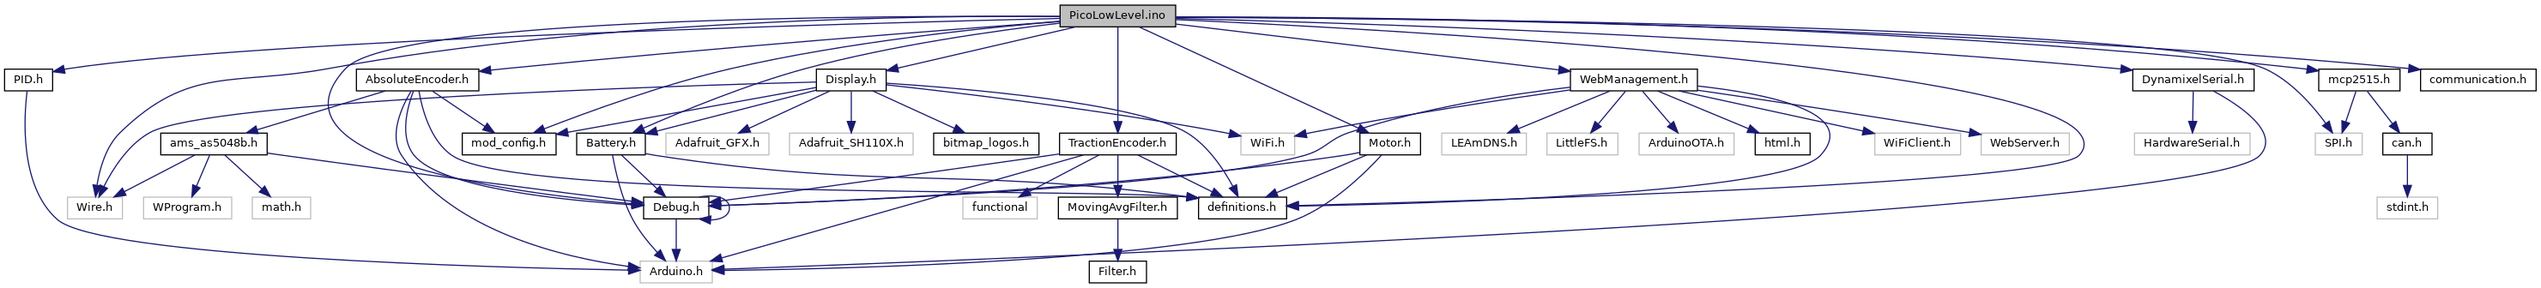
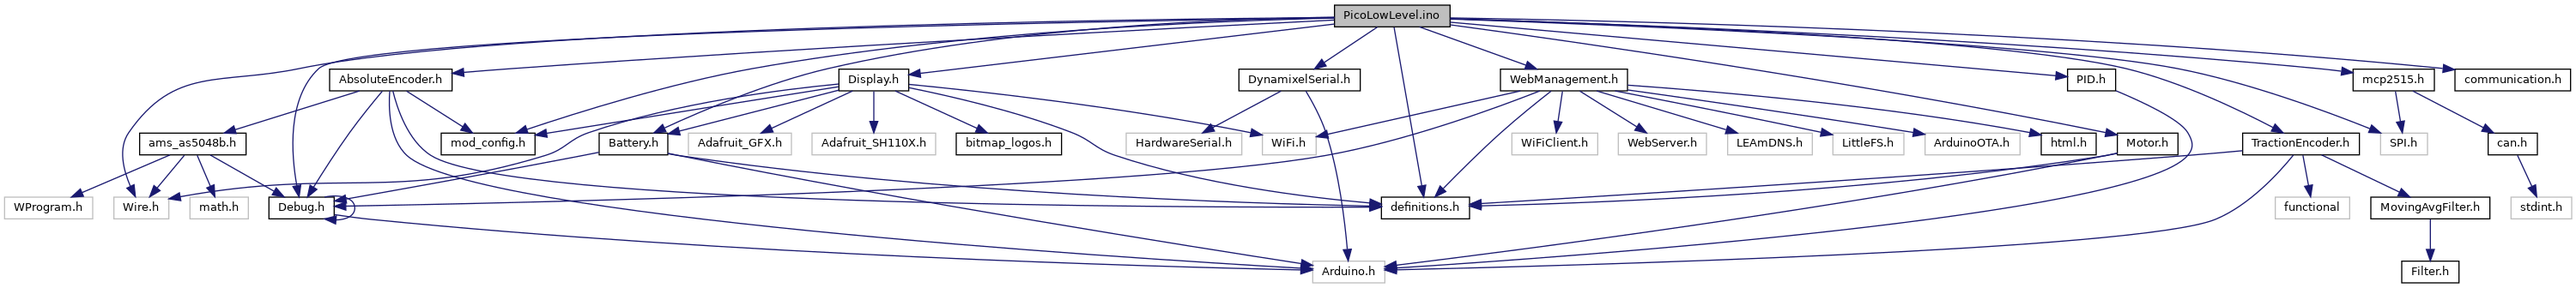
Deploying to gh-pages from @ Team-Isaac-Polito/PicoLowLevel@255b594eee06919a0826bf6aa07f823008636946 🚀

diff --git a/TractionEncoder_8h_source.html b/TractionEncoder_8h_source.html
@@ -90,35 +90,33 @@ $(document).ready(function(){initNavTree('TractionEncoder_8h_source.html',''); i
 <div class="line"><a name="l00003"></a><span class="lineno">    3</span>&#160; </div>
 <div class="line"><a name="l00004"></a><span class="lineno">    4</span>&#160;<span class="preprocessor">#include &lt;Arduino.h&gt;</span></div>
 <div class="line"><a name="l00005"></a><span class="lineno">    5</span>&#160;<span class="preprocessor">#include &lt;functional&gt;</span></div>
-<div class="line"><a name="l00006"></a><span class="lineno">    6</span>&#160;<span class="preprocessor">#include &quot;<a class="code" href="Debug_8h.html">Debug.h</a>&quot;</span></div>
-<div class="line"><a name="l00007"></a><span class="lineno">    7</span>&#160;<span class="preprocessor">#include &quot;<a class="code" href="definitions_8h.html">definitions.h</a>&quot;</span></div>
-<div class="line"><a name="l00008"></a><span class="lineno">    8</span>&#160;<span class="preprocessor">#include &quot;<a class="code" href="MovingAvgFilter_8h.html">MovingAvgFilter.h</a>&quot;</span></div>
-<div class="line"><a name="l00009"></a><span class="lineno">    9</span>&#160; </div>
-<div class="line"><a name="l00013"></a><span class="lineno"><a class="line" href="classTractionEncoder.html">   13</a></span>&#160;<span class="keyword">class </span><a class="code" href="classTractionEncoder.html">TractionEncoder</a> { </div>
-<div class="line"><a name="l00014"></a><span class="lineno">   14</span>&#160;  <span class="keyword">public</span>:</div>
-<div class="line"><a name="l00015"></a><span class="lineno">   15</span>&#160;    <a class="code" href="classTractionEncoder.html#a087860f2f22da4cf9dd0a4d93398eb73">TractionEncoder</a>(<span class="keywordtype">byte</span> pin_a, <span class="keywordtype">byte</span> pin_b, <a class="code" href="classFilter.html">Filter&lt;int&gt;</a> *filter = NULL);</div>
-<div class="line"><a name="l00016"></a><span class="lineno">   16</span>&#160;    <span class="keywordtype">void</span> <a class="code" href="classTractionEncoder.html#a3b38935e97776ddcebdeb2c394f6d48d">begin</a>();</div>
-<div class="line"><a name="l00017"></a><span class="lineno">   17</span>&#160;    <span class="keywordtype">void</span> <a class="code" href="classTractionEncoder.html#a6d70ace18f1dcec4d0ddddf84ad48343">update</a>();</div>
-<div class="line"><a name="l00018"></a><span class="lineno">   18</span>&#160;    <span class="keywordtype">int</span> <a class="code" href="classTractionEncoder.html#a2c414262e6a923fe180d51197fc9bf5b">getSpeed</a>();</div>
-<div class="line"><a name="l00019"></a><span class="lineno">   19</span>&#160; </div>
-<div class="line"><a name="l00020"></a><span class="lineno">   20</span>&#160;  <span class="keyword">private</span>:</div>
-<div class="line"><a name="l00021"></a><span class="lineno">   21</span>&#160;    <span class="keywordtype">byte</span> pin_a, pin_b;</div>
-<div class="line"><a name="l00022"></a><span class="lineno">   22</span>&#160;    <span class="keywordtype">bool</span> old_a;</div>
-<div class="line"><a name="l00023"></a><span class="lineno">   23</span>&#160;    <span class="keywordtype">long</span> countSteps;</div>
-<div class="line"><a name="l00024"></a><span class="lineno">   24</span>&#160;    <span class="keywordtype">unsigned</span> <span class="keywordtype">long</span> time;</div>
-<div class="line"><a name="l00025"></a><span class="lineno">   25</span>&#160;    <span class="keywordtype">int</span> speed;</div>
-<div class="line"><a name="l00026"></a><span class="lineno">   26</span>&#160; </div>
-<div class="line"><a name="l00027"></a><span class="lineno">   27</span>&#160;    <a class="code" href="classFilter.html">Filter&lt;int&gt;</a> *filter;</div>
-<div class="line"><a name="l00028"></a><span class="lineno">   28</span>&#160; </div>
-<div class="line"><a name="l00029"></a><span class="lineno">   29</span>&#160;    <span class="keywordtype">void</span> ISR();</div>
-<div class="line"><a name="l00030"></a><span class="lineno">   30</span>&#160;    <span class="keyword">static</span> <span class="keywordtype">void</span> ISR_wrapper(<a class="code" href="classTractionEncoder.html">TractionEncoder</a>* te);</div>
-<div class="line"><a name="l00031"></a><span class="lineno">   31</span>&#160;};</div>
-<div class="line"><a name="l00032"></a><span class="lineno">   32</span>&#160; </div>
-<div class="line"><a name="l00033"></a><span class="lineno">   33</span>&#160;<span class="preprocessor">#endif</span></div>
-<div class="ttc" id="aDebug_8h_html"><div class="ttname"><a href="Debug_8h.html">Debug.h</a></div></div>
+<div class="line"><a name="l00006"></a><span class="lineno">    6</span>&#160;<span class="preprocessor">#include &quot;<a class="code" href="definitions_8h.html">definitions.h</a>&quot;</span></div>
+<div class="line"><a name="l00007"></a><span class="lineno">    7</span>&#160;<span class="preprocessor">#include &quot;<a class="code" href="MovingAvgFilter_8h.html">MovingAvgFilter.h</a>&quot;</span></div>
+<div class="line"><a name="l00008"></a><span class="lineno">    8</span>&#160; </div>
+<div class="line"><a name="l00012"></a><span class="lineno"><a class="line" href="classTractionEncoder.html">   12</a></span>&#160;<span class="keyword">class </span><a class="code" href="classTractionEncoder.html">TractionEncoder</a> { </div>
+<div class="line"><a name="l00013"></a><span class="lineno">   13</span>&#160;  <span class="keyword">public</span>:</div>
+<div class="line"><a name="l00014"></a><span class="lineno">   14</span>&#160;    <a class="code" href="classTractionEncoder.html#a087860f2f22da4cf9dd0a4d93398eb73">TractionEncoder</a>(<span class="keywordtype">byte</span> pin_a, <span class="keywordtype">byte</span> pin_b, <a class="code" href="classFilter.html">Filter&lt;int&gt;</a> *filter = NULL);</div>
+<div class="line"><a name="l00015"></a><span class="lineno">   15</span>&#160;    <span class="keywordtype">void</span> <a class="code" href="classTractionEncoder.html#a3b38935e97776ddcebdeb2c394f6d48d">begin</a>();</div>
+<div class="line"><a name="l00016"></a><span class="lineno">   16</span>&#160;    <span class="keywordtype">void</span> <a class="code" href="classTractionEncoder.html#a6d70ace18f1dcec4d0ddddf84ad48343">update</a>();</div>
+<div class="line"><a name="l00017"></a><span class="lineno">   17</span>&#160;    <span class="keywordtype">int</span> <a class="code" href="classTractionEncoder.html#a2c414262e6a923fe180d51197fc9bf5b">getSpeed</a>();</div>
+<div class="line"><a name="l00018"></a><span class="lineno">   18</span>&#160; </div>
+<div class="line"><a name="l00019"></a><span class="lineno">   19</span>&#160;  <span class="keyword">private</span>:</div>
+<div class="line"><a name="l00020"></a><span class="lineno">   20</span>&#160;    <span class="keywordtype">byte</span> pin_a, pin_b;</div>
+<div class="line"><a name="l00021"></a><span class="lineno">   21</span>&#160;    <span class="keywordtype">bool</span> old_a;</div>
+<div class="line"><a name="l00022"></a><span class="lineno">   22</span>&#160;    <span class="keywordtype">long</span> countSteps;</div>
+<div class="line"><a name="l00023"></a><span class="lineno">   23</span>&#160;    <span class="keywordtype">unsigned</span> <span class="keywordtype">long</span> time;</div>
+<div class="line"><a name="l00024"></a><span class="lineno">   24</span>&#160;    <span class="keywordtype">int</span> speed;</div>
+<div class="line"><a name="l00025"></a><span class="lineno">   25</span>&#160; </div>
+<div class="line"><a name="l00026"></a><span class="lineno">   26</span>&#160;    <a class="code" href="classFilter.html">Filter&lt;int&gt;</a> *filter;</div>
+<div class="line"><a name="l00027"></a><span class="lineno">   27</span>&#160; </div>
+<div class="line"><a name="l00028"></a><span class="lineno">   28</span>&#160;    <span class="keywordtype">void</span> ISR();</div>
+<div class="line"><a name="l00029"></a><span class="lineno">   29</span>&#160;    <span class="keyword">static</span> <span class="keywordtype">void</span> ISR_wrapper(<a class="code" href="classTractionEncoder.html">TractionEncoder</a>* te);</div>
+<div class="line"><a name="l00030"></a><span class="lineno">   30</span>&#160;};</div>
+<div class="line"><a name="l00031"></a><span class="lineno">   31</span>&#160; </div>
+<div class="line"><a name="l00032"></a><span class="lineno">   32</span>&#160;<span class="preprocessor">#endif</span></div>
 <div class="ttc" id="aMovingAvgFilter_8h_html"><div class="ttname"><a href="MovingAvgFilter_8h.html">MovingAvgFilter.h</a></div></div>
 <div class="ttc" id="aclassFilter_html"><div class="ttname"><a href="classFilter.html">Filter&lt; int &gt;</a></div></div>
-<div class="ttc" id="aclassTractionEncoder_html"><div class="ttname"><a href="classTractionEncoder.html">TractionEncoder</a></div><div class="ttdoc">Class used to read data from traction rotary encoders.</div><div class="ttdef"><b>Definition:</b> TractionEncoder.h:13</div></div>
+<div class="ttc" id="aclassTractionEncoder_html"><div class="ttname"><a href="classTractionEncoder.html">TractionEncoder</a></div><div class="ttdoc">Class used to read data from traction rotary encoders.</div><div class="ttdef"><b>Definition:</b> TractionEncoder.h:12</div></div>
 <div class="ttc" id="aclassTractionEncoder_html_a087860f2f22da4cf9dd0a4d93398eb73"><div class="ttname"><a href="classTractionEncoder.html#a087860f2f22da4cf9dd0a4d93398eb73">TractionEncoder::TractionEncoder</a></div><div class="ttdeci">TractionEncoder(byte pin_a, byte pin_b, Filter&lt; int &gt; *filter=NULL)</div><div class="ttdoc">Creates object.</div><div class="ttdef"><b>Definition:</b> TractionEncoder.cpp:6</div></div>
 <div class="ttc" id="aclassTractionEncoder_html_a2c414262e6a923fe180d51197fc9bf5b"><div class="ttname"><a href="classTractionEncoder.html#a2c414262e6a923fe180d51197fc9bf5b">TractionEncoder::getSpeed</a></div><div class="ttdeci">int getSpeed()</div><div class="ttdoc">Returns the last detected speed.</div><div class="ttdef"><b>Definition:</b> TractionEncoder.cpp:48</div></div>
 <div class="ttc" id="aclassTractionEncoder_html_a3b38935e97776ddcebdeb2c394f6d48d"><div class="ttname"><a href="classTractionEncoder.html#a3b38935e97776ddcebdeb2c394f6d48d">TractionEncoder::begin</a></div><div class="ttdeci">void begin()</div><div class="ttdoc">Sets the encoder's pins and attach the interrupt.</div><div class="ttdef"><b>Definition:</b> TractionEncoder.cpp:17</div></div>

diff --git a/Motor_8h_source.html b/Motor_8h_source.html
@@ -89,22 +89,20 @@ $(document).ready(function(){initNavTree('Motor_8h_source.html',''); initResizab
 <div class="line"><a name="l00002"></a><span class="lineno">    2</span>&#160;<span class="preprocessor">#define MOTOR_H</span></div>
 <div class="line"><a name="l00003"></a><span class="lineno">    3</span>&#160; </div>
 <div class="line"><a name="l00004"></a><span class="lineno">    4</span>&#160;<span class="preprocessor">#include &lt;Arduino.h&gt;</span></div>
-<div class="line"><a name="l00005"></a><span class="lineno">    5</span>&#160;<span class="preprocessor">#include &quot;<a class="code" href="Debug_8h.html">Debug.h</a>&quot;</span></div>
-<div class="line"><a name="l00006"></a><span class="lineno">    6</span>&#160;<span class="preprocessor">#include &quot;<a class="code" href="definitions_8h.html">definitions.h</a>&quot;</span></div>
-<div class="line"><a name="l00007"></a><span class="lineno">    7</span>&#160; </div>
-<div class="line"><a name="l00011"></a><span class="lineno"><a class="line" href="classMotor.html">   11</a></span>&#160;<span class="keyword">class </span><a class="code" href="classMotor.html">Motor</a> {</div>
-<div class="line"><a name="l00012"></a><span class="lineno">   12</span>&#160;  <span class="keyword">public</span>:</div>
-<div class="line"><a name="l00013"></a><span class="lineno">   13</span>&#160;    <a class="code" href="classMotor.html#a2fa21a9588e7fb8ca61db5b569cc7e63">Motor</a>(<span class="keywordtype">byte</span> pwm, <span class="keywordtype">byte</span> dir);</div>
-<div class="line"><a name="l00014"></a><span class="lineno">   14</span>&#160;    <span class="keywordtype">void</span> <a class="code" href="classMotor.html#a8949ad244c546ecde601ec3d03403ed9">begin</a>();</div>
-<div class="line"><a name="l00015"></a><span class="lineno">   15</span>&#160;    <span class="keywordtype">void</span> <a class="code" href="classMotor.html#a59dc38671f171be3097b3d84ddf1180e">write</a>(<span class="keywordtype">float</span> value);</div>
-<div class="line"><a name="l00016"></a><span class="lineno">   16</span>&#160;    </div>
-<div class="line"><a name="l00017"></a><span class="lineno">   17</span>&#160;  <span class="keyword">private</span>:</div>
-<div class="line"><a name="l00018"></a><span class="lineno">   18</span>&#160;    <span class="keywordtype">byte</span> pwm, dir;</div>
-<div class="line"><a name="l00019"></a><span class="lineno">   19</span>&#160;};</div>
-<div class="line"><a name="l00020"></a><span class="lineno">   20</span>&#160; </div>
-<div class="line"><a name="l00021"></a><span class="lineno">   21</span>&#160;<span class="preprocessor">#endif</span></div>
-<div class="ttc" id="aDebug_8h_html"><div class="ttname"><a href="Debug_8h.html">Debug.h</a></div></div>
-<div class="ttc" id="aclassMotor_html"><div class="ttname"><a href="classMotor.html">Motor</a></div><div class="ttdoc">Motor class used to control simple DC motors.</div><div class="ttdef"><b>Definition:</b> Motor.h:11</div></div>
+<div class="line"><a name="l00005"></a><span class="lineno">    5</span>&#160;<span class="preprocessor">#include &quot;<a class="code" href="definitions_8h.html">definitions.h</a>&quot;</span></div>
+<div class="line"><a name="l00006"></a><span class="lineno">    6</span>&#160; </div>
+<div class="line"><a name="l00010"></a><span class="lineno"><a class="line" href="classMotor.html">   10</a></span>&#160;<span class="keyword">class </span><a class="code" href="classMotor.html">Motor</a> {</div>
+<div class="line"><a name="l00011"></a><span class="lineno">   11</span>&#160;  <span class="keyword">public</span>:</div>
+<div class="line"><a name="l00012"></a><span class="lineno">   12</span>&#160;    <a class="code" href="classMotor.html#a2fa21a9588e7fb8ca61db5b569cc7e63">Motor</a>(<span class="keywordtype">byte</span> pwm, <span class="keywordtype">byte</span> dir);</div>
+<div class="line"><a name="l00013"></a><span class="lineno">   13</span>&#160;    <span class="keywordtype">void</span> <a class="code" href="classMotor.html#a8949ad244c546ecde601ec3d03403ed9">begin</a>();</div>
+<div class="line"><a name="l00014"></a><span class="lineno">   14</span>&#160;    <span class="keywordtype">void</span> <a class="code" href="classMotor.html#a59dc38671f171be3097b3d84ddf1180e">write</a>(<span class="keywordtype">float</span> value);</div>
+<div class="line"><a name="l00015"></a><span class="lineno">   15</span>&#160;    </div>
+<div class="line"><a name="l00016"></a><span class="lineno">   16</span>&#160;  <span class="keyword">private</span>:</div>
+<div class="line"><a name="l00017"></a><span class="lineno">   17</span>&#160;    <span class="keywordtype">byte</span> pwm, dir;</div>
+<div class="line"><a name="l00018"></a><span class="lineno">   18</span>&#160;};</div>
+<div class="line"><a name="l00019"></a><span class="lineno">   19</span>&#160; </div>
+<div class="line"><a name="l00020"></a><span class="lineno">   20</span>&#160;<span class="preprocessor">#endif</span></div>
+<div class="ttc" id="aclassMotor_html"><div class="ttname"><a href="classMotor.html">Motor</a></div><div class="ttdoc">Motor class used to control simple DC motors.</div><div class="ttdef"><b>Definition:</b> Motor.h:10</div></div>
 <div class="ttc" id="aclassMotor_html_a2fa21a9588e7fb8ca61db5b569cc7e63"><div class="ttname"><a href="classMotor.html#a2fa21a9588e7fb8ca61db5b569cc7e63">Motor::Motor</a></div><div class="ttdeci">Motor(byte pwm, byte dir)</div><div class="ttdoc">Create object and set motor pins.</div><div class="ttdef"><b>Definition:</b> Motor.cpp:8</div></div>
 <div class="ttc" id="aclassMotor_html_a59dc38671f171be3097b3d84ddf1180e"><div class="ttname"><a href="classMotor.html#a59dc38671f171be3097b3d84ddf1180e">Motor::write</a></div><div class="ttdeci">void write(float value)</div><div class="ttdoc">Sets the motor speed.</div><div class="ttdef"><b>Definition:</b> Motor.cpp:25</div></div>
 <div class="ttc" id="aclassMotor_html_a8949ad244c546ecde601ec3d03403ed9"><div class="ttname"><a href="classMotor.html#a8949ad244c546ecde601ec3d03403ed9">Motor::begin</a></div><div class="ttdeci">void begin()</div><div class="ttdoc">Initialize motors.</div><div class="ttdef"><b>Definition:</b> Motor.cpp:16</div></div>

diff --git a/PicoLowLevel_8ino.html b/PicoLowLevel_8ino.html
@@ -108,42 +108,42 @@ Include dependency graph for PicoLowLevel.ino:</div>
 <div class="dyncontent">
 <div class="center"><img src="PicoLowLevel_8ino__incl.png" border="0" usemap="#aPicoLowLevel_8ino" alt=""/></div>
 <map name="aPicoLowLevel_8ino" id="aPicoLowLevel_8ino">
-<area shape="rect" title=" " alt="" coords="1235,5,1370,32"/>
-<area shape="rect" title=" " alt="" coords="79,229,143,256"/>
-<area shape="rect" title=" " alt="" coords="2698,155,2753,181"/>
-<area shape="rect" href="Motor_8h.html" title=" " alt="" coords="1585,155,1655,181"/>
-<area shape="rect" href="Debug_8h.html" title=" " alt="" coords="750,229,826,256"/>
-<area shape="rect" href="definitions_8h.html" title=" " alt="" coords="1397,229,1499,256"/>
-<area shape="rect" href="AbsoluteEncoder_8h.html" title=" " alt="" coords="415,80,558,107"/>
-<area shape="rect" href="mod__config_8h.html" title=" " alt="" coords="539,155,648,181"/>
-<area shape="rect" href="Battery_8h.html" title=" " alt="" coords="672,155,752,181"/>
-<area shape="rect" href="TractionEncoder_8h.html" title=" " alt="" coords="1235,155,1371,181"/>
-<area shape="rect" href="DynamixelSerial_8h.html" title=" " alt="" coords="2485,80,2627,107"/>
-<area shape="rect" href="PID_8h.html" title=" " alt="" coords="5,80,61,107"/>
-<area shape="rect" href="mcp2515_8h.html" title=" " alt="" coords="2702,80,2797,107"/>
-<area shape="rect" href="communication_8h.html" title=" " alt="" coords="2821,80,2955,107"/>
-<area shape="rect" href="WebManagement_8h.html" title=" " alt="" coords="1830,80,1978,107"/>
-<area shape="rect" href="Display_8h.html" title=" " alt="" coords="951,80,1033,107"/>
-<area shape="rect" title=" " alt="" coords="746,304,830,331"/>
-<area shape="rect" href="ams__as5048b_8h.html" title=" " alt="" coords="187,155,311,181"/>
-<area shape="rect" title=" " alt="" coords="167,229,270,256"/>
-<area shape="rect" title=" " alt="" coords="294,229,362,256"/>
-<area shape="rect" title=" " alt="" coords="1122,229,1209,256"/>
-<area shape="rect" href="MovingAvgFilter_8h.html" title=" " alt="" coords="1233,229,1372,256"/>
-<area shape="rect" href="Filter_8h.html" title=" " alt="" coords="1269,304,1336,331"/>
-<area shape="rect" title=" " alt="" coords="2487,155,2622,181"/>
-<area shape="rect" href="can_8h.html" title=" " alt="" coords="2777,155,2834,181"/>
-<area shape="rect" title=" " alt="" coords="2770,229,2841,256"/>
-<area shape="rect" title=" " alt="" coords="1446,155,1509,181"/>
-<area shape="rect" title=" " alt="" coords="2185,155,2285,181"/>
-<area shape="rect" title=" " alt="" coords="2309,155,2411,181"/>
-<area shape="rect" title=" " alt="" coords="1680,155,1779,181"/>
-<area shape="rect" title=" " alt="" coords="1803,155,1885,181"/>
-<area shape="rect" title=" " alt="" coords="1910,155,2021,181"/>
-<area shape="rect" href="html_8h.html" title=" " alt="" coords="2045,155,2109,181"/>
-<area shape="rect" title=" " alt="" coords="776,155,896,181"/>
-<area shape="rect" title=" " alt="" coords="920,155,1064,181"/>
-<area shape="rect" href="bitmap__logos_8h.html" title=" " alt="" coords="1088,155,1211,181"/>
+<area shape="rect" title=" " alt="" coords="1555,5,1689,32"/>
+<area shape="rect" title=" " alt="" coords="133,229,197,256"/>
+<area shape="rect" title=" " alt="" coords="2773,155,2828,181"/>
+<area shape="rect" href="Motor_8h.html" title=" " alt="" coords="2467,155,2537,181"/>
+<area shape="rect" href="definitions_8h.html" title=" " alt="" coords="1609,229,1712,256"/>
+<area shape="rect" href="AbsoluteEncoder_8h.html" title=" " alt="" coords="384,80,527,107"/>
+<area shape="rect" href="Debug_8h.html" title=" " alt="" coords="313,229,389,256"/>
+<area shape="rect" href="mod__config_8h.html" title=" " alt="" coords="514,155,623,181"/>
+<area shape="rect" href="Battery_8h.html" title=" " alt="" coords="698,155,778,181"/>
+<area shape="rect" href="TractionEncoder_8h.html" title=" " alt="" coords="2613,155,2749,181"/>
+<area shape="rect" href="DynamixelSerial_8h.html" title=" " alt="" coords="1443,80,1585,107"/>
+<area shape="rect" href="PID_8h.html" title=" " alt="" coords="2409,80,2465,107"/>
+<area shape="rect" href="mcp2515_8h.html" title=" " alt="" coords="2741,80,2836,107"/>
+<area shape="rect" href="communication_8h.html" title=" " alt="" coords="2860,80,2995,107"/>
+<area shape="rect" href="WebManagement_8h.html" title=" " alt="" coords="1748,80,1896,107"/>
+<area shape="rect" href="Display_8h.html" title=" " alt="" coords="977,80,1059,107"/>
+<area shape="rect" title=" " alt="" coords="1529,304,1613,331"/>
+<area shape="rect" href="ams__as5048b_8h.html" title=" " alt="" coords="163,155,287,181"/>
+<area shape="rect" title=" " alt="" coords="5,229,108,256"/>
+<area shape="rect" title=" " alt="" coords="221,229,289,256"/>
+<area shape="rect" title=" " alt="" coords="2651,229,2737,256"/>
+<area shape="rect" href="MovingAvgFilter_8h.html" title=" " alt="" coords="2762,229,2901,256"/>
+<area shape="rect" href="Filter_8h.html" title=" " alt="" coords="2798,304,2865,331"/>
+<area shape="rect" title=" " alt="" coords="1312,155,1447,181"/>
+<area shape="rect" href="can_8h.html" title=" " alt="" coords="2899,155,2956,181"/>
+<area shape="rect" title=" " alt="" coords="2925,229,2996,256"/>
+<area shape="rect" title=" " alt="" coords="1471,155,1533,181"/>
+<area shape="rect" title=" " alt="" coords="1761,155,1861,181"/>
+<area shape="rect" title=" " alt="" coords="1885,155,1988,181"/>
+<area shape="rect" title=" " alt="" coords="2013,155,2111,181"/>
+<area shape="rect" title=" " alt="" coords="2135,155,2218,181"/>
+<area shape="rect" title=" " alt="" coords="2243,155,2353,181"/>
+<area shape="rect" href="html_8h.html" title=" " alt="" coords="2378,155,2442,181"/>
+<area shape="rect" title=" " alt="" coords="802,155,922,181"/>
+<area shape="rect" title=" " alt="" coords="946,155,1090,181"/>
+<area shape="rect" href="bitmap__logos_8h.html" title=" " alt="" coords="1114,155,1237,181"/>
 </map>
 </div>
 </div><table class="memberdecls">

diff --git a/Debug_8h.html b/Debug_8h.html
@@ -105,23 +105,19 @@ This graph shows which files directly or indirectly include this file:</div>
 <div class="dyncontent">
 <div class="center"><img src="Debug_8h__dep__incl.png" border="0" usemap="#aDebug_8hdep" alt=""/></div>
 <map name="aDebug_8hdep" id="aDebug_8hdep">
-<area shape="rect" title=" " alt="" coords="662,6,738,33"/>
+<area shape="rect" title=" " alt="" coords="361,6,437,33"/>
 <area shape="rect" href="AbsoluteEncoder_8h.html" title=" " alt="" coords="13,155,155,182"/>
-<area shape="rect" href="PicoLowLevel_8ino.html" title=" " alt="" coords="565,230,699,257"/>
+<area shape="rect" href="PicoLowLevel_8ino.html" title=" " alt="" coords="429,230,563,257"/>
 <area shape="rect" href="ams__as5048b_8h.html" title=" " alt="" coords="187,81,311,107"/>
-<area shape="rect" href="Battery_8h.html" title=" " alt="" coords="457,81,537,107"/>
-<area shape="rect" href="Debug_8cpp.html" title=" " alt="" coords="724,81,815,107"/>
-<area shape="rect" href="Motor_8h.html" title=" " alt="" coords="839,81,910,107"/>
-<area shape="rect" href="TractionEncoder_8h.html" title=" " alt="" coords="564,81,700,107"/>
-<area shape="rect" href="WebManagement_8h.html" title=" " alt="" coords="947,81,1095,107"/>
+<area shape="rect" href="Battery_8h.html" title=" " alt="" coords="427,81,507,107"/>
+<area shape="rect" href="Debug_8cpp.html" title=" " alt="" coords="756,81,847,107"/>
+<area shape="rect" href="WebManagement_8h.html" title=" " alt="" coords="583,81,731,107"/>
 <area shape="rect" href="AbsoluteEncoder_8cpp.html" title=" " alt="" coords="5,230,163,257"/>
 <area shape="rect" href="ams__as5048b_8cpp.html" title=" " alt="" coords="180,155,319,182"/>
-<area shape="rect" href="Battery_8cpp.html" title=" " alt="" coords="449,155,543,182"/>
-<area shape="rect" href="Display_8h.html" title=" " alt="" coords="343,155,425,182"/>
-<area shape="rect" href="Display_8cpp.html" title=" " alt="" coords="336,230,432,257"/>
-<area shape="rect" href="Motor_8cpp.html" title=" " alt="" coords="897,155,983,182"/>
-<area shape="rect" href="TractionEncoder_8cpp.html" title=" " alt="" coords="670,155,821,182"/>
-<area shape="rect" href="WebManagement_8cpp.html" title=" " alt="" coords="1059,155,1221,182"/>
+<area shape="rect" href="Battery_8cpp.html" title=" " alt="" coords="394,155,489,182"/>
+<area shape="rect" href="Display_8h.html" title=" " alt="" coords="565,155,646,182"/>
+<area shape="rect" href="Display_8cpp.html" title=" " alt="" coords="588,230,684,257"/>
+<area shape="rect" href="WebManagement_8cpp.html" title=" " alt="" coords="721,155,884,182"/>
 </map>
 </div>
 </div>

diff --git a/TractionEncoder_8h.html b/TractionEncoder_8h.html
@@ -89,7 +89,6 @@ $(document).ready(function(){initNavTree('TractionEncoder_8h.html',''); initResi
 <div class="contents">
 <div class="textblock"><code>#include &lt;Arduino.h&gt;</code><br />
 <code>#include &lt;functional&gt;</code><br />
-<code>#include &quot;<a class="el" href="Debug_8h_source.html">Debug.h</a>&quot;</code><br />
 <code>#include &quot;<a class="el" href="definitions_8h_source.html">definitions.h</a>&quot;</code><br />
 <code>#include &quot;<a class="el" href="MovingAvgFilter_8h_source.html">MovingAvgFilter.h</a>&quot;</code><br />
 </div><div class="textblock"><div class="dynheader">
@@ -97,13 +96,12 @@ Include dependency graph for TractionEncoder.h:</div>
 <div class="dyncontent">
 <div class="center"><img src="TractionEncoder_8h__incl.png" border="0" usemap="#aTractionEncoder_8h" alt=""/></div>
 <map name="aTractionEncoder_8h" id="aTractionEncoder_8h">
-<area shape="rect" title=" " alt="" coords="104,5,240,32"/>
-<area shape="rect" title=" " alt="" coords="37,155,121,181"/>
-<area shape="rect" title=" " alt="" coords="24,80,110,107"/>
-<area shape="rect" href="Debug_8h.html" title=" " alt="" coords="134,80,210,107"/>
-<area shape="rect" href="definitions_8h.html" title=" " alt="" coords="258,80,361,107"/>
-<area shape="rect" href="MovingAvgFilter_8h.html" title=" " alt="" coords="386,80,524,107"/>
-<area shape="rect" href="Filter_8h.html" title=" " alt="" coords="422,155,488,181"/>
+<area shape="rect" title=" " alt="" coords="147,5,283,32"/>
+<area shape="rect" title=" " alt="" coords="5,80,89,107"/>
+<area shape="rect" title=" " alt="" coords="113,80,200,107"/>
+<area shape="rect" href="definitions_8h.html" title=" " alt="" coords="224,80,327,107"/>
+<area shape="rect" href="MovingAvgFilter_8h.html" title=" " alt="" coords="351,80,490,107"/>
+<area shape="rect" href="Filter_8h.html" title=" " alt="" coords="387,155,454,181"/>
 </map>
 </div>
 </div><div class="textblock"><div class="dynheader">

diff --git a/TractionEncoder_8cpp.html b/TractionEncoder_8cpp.html
@@ -91,14 +91,13 @@ Include dependency graph for TractionEncoder.cpp:</div>
 <div class="dyncontent">
 <div class="center"><img src="TractionEncoder_8cpp__incl.png" border="0" usemap="#aTractionEncoder_8cpp" alt=""/></div>
 <map name="aTractionEncoder_8cpp" id="aTractionEncoder_8cpp">
-<area shape="rect" title=" " alt="" coords="97,5,248,32"/>
-<area shape="rect" href="TractionEncoder_8h.html" title=" " alt="" coords="104,80,240,107"/>
-<area shape="rect" title=" " alt="" coords="37,229,121,256"/>
-<area shape="rect" title=" " alt="" coords="24,155,110,181"/>
-<area shape="rect" href="Debug_8h.html" title=" " alt="" coords="134,155,210,181"/>
-<area shape="rect" href="definitions_8h.html" title=" " alt="" coords="258,155,361,181"/>
-<area shape="rect" href="MovingAvgFilter_8h.html" title=" " alt="" coords="386,155,524,181"/>
-<area shape="rect" href="Filter_8h.html" title=" " alt="" coords="422,229,488,256"/>
+<area shape="rect" title=" " alt="" coords="140,5,291,32"/>
+<area shape="rect" href="TractionEncoder_8h.html" title=" " alt="" coords="147,80,283,107"/>
+<area shape="rect" title=" " alt="" coords="5,155,89,181"/>
+<area shape="rect" title=" " alt="" coords="113,155,200,181"/>
+<area shape="rect" href="definitions_8h.html" title=" " alt="" coords="224,155,327,181"/>
+<area shape="rect" href="MovingAvgFilter_8h.html" title=" " alt="" coords="351,155,490,181"/>
+<area shape="rect" href="Filter_8h.html" title=" " alt="" coords="387,229,454,256"/>
 </map>
 </div>
 </div></div><!-- contents -->

diff --git a/Motor_8h.html b/Motor_8h.html
@@ -88,17 +88,15 @@ $(document).ready(function(){initNavTree('Motor_8h.html',''); initResizable(); }
 </div><!--header-->
 <div class="contents">
 <div class="textblock"><code>#include &lt;Arduino.h&gt;</code><br />
-<code>#include &quot;<a class="el" href="Debug_8h_source.html">Debug.h</a>&quot;</code><br />
 <code>#include &quot;<a class="el" href="definitions_8h_source.html">definitions.h</a>&quot;</code><br />
 </div><div class="textblock"><div class="dynheader">
 Include dependency graph for Motor.h:</div>
 <div class="dyncontent">
 <div class="center"><img src="Motor_8h__incl.png" border="0" usemap="#aMotor_8h" alt=""/></div>
 <map name="aMotor_8h" id="aMotor_8h">
-<area shape="rect" title=" " alt="" coords="51,5,121,32"/>
-<area shape="rect" title=" " alt="" coords="5,155,89,181"/>
-<area shape="rect" href="Debug_8h.html" title=" " alt="" coords="48,80,124,107"/>
-<area shape="rect" href="definitions_8h.html" title=" " alt="" coords="172,80,275,107"/>
+<area shape="rect" title=" " alt="" coords="71,5,141,32"/>
+<area shape="rect" title=" " alt="" coords="5,80,89,107"/>
+<area shape="rect" href="definitions_8h.html" title=" " alt="" coords="113,80,216,107"/>
 </map>
 </div>
 </div><div class="textblock"><div class="dynheader">

diff --git a/MovingAvgFilter_8h_source.html b/MovingAvgFilter_8h_source.html
@@ -106,7 +106,7 @@ $(document).ready(function(){initNavTree('MovingAvgFilter_8h_source.html',''); i
 <div class="line"><a name="l00032"></a><span class="lineno">   32</span>&#160;        samples[last] = value;</div>
 <div class="line"><a name="l00033"></a><span class="lineno">   33</span>&#160;        total += value;</div>
 <div class="line"><a name="l00034"></a><span class="lineno">   34</span>&#160; </div>
-<div class="line"><a name="l00035"></a><span class="lineno">   35</span>&#160;        <span class="keywordflow">if</span>(++last &gt; nsamples) last = 0;</div>
+<div class="line"><a name="l00035"></a><span class="lineno">   35</span>&#160;        <span class="keywordflow">if</span>(++last &gt;= nsamples) last = 0;</div>
 <div class="line"><a name="l00036"></a><span class="lineno">   36</span>&#160; </div>
 <div class="line"><a name="l00037"></a><span class="lineno">   37</span>&#160;        <span class="keywordflow">return</span> (T)(total/nsamples);</div>
 <div class="line"><a name="l00038"></a><span class="lineno">   38</span>&#160;    }</div>

diff --git a/Motor_8cpp.html b/Motor_8cpp.html
@@ -91,11 +91,10 @@ Include dependency graph for Motor.cpp:</div>
 <div class="dyncontent">
 <div class="center"><img src="Motor_8cpp__incl.png" border="0" usemap="#aMotor_8cpp" alt=""/></div>
 <map name="aMotor_8cpp" id="aMotor_8cpp">
-<area shape="rect" title=" " alt="" coords="43,5,129,32"/>
-<area shape="rect" href="Motor_8h.html" title=" " alt="" coords="51,80,121,107"/>
-<area shape="rect" title=" " alt="" coords="5,229,89,256"/>
-<area shape="rect" href="Debug_8h.html" title=" " alt="" coords="48,155,124,181"/>
-<area shape="rect" href="definitions_8h.html" title=" " alt="" coords="172,155,275,181"/>
+<area shape="rect" title=" " alt="" coords="63,5,149,32"/>
+<area shape="rect" href="Motor_8h.html" title=" " alt="" coords="71,80,141,107"/>
+<area shape="rect" title=" " alt="" coords="5,155,89,181"/>
+<area shape="rect" href="definitions_8h.html" title=" " alt="" coords="113,155,216,181"/>
 </map>
 </div>
 </div></div><!-- contents -->
